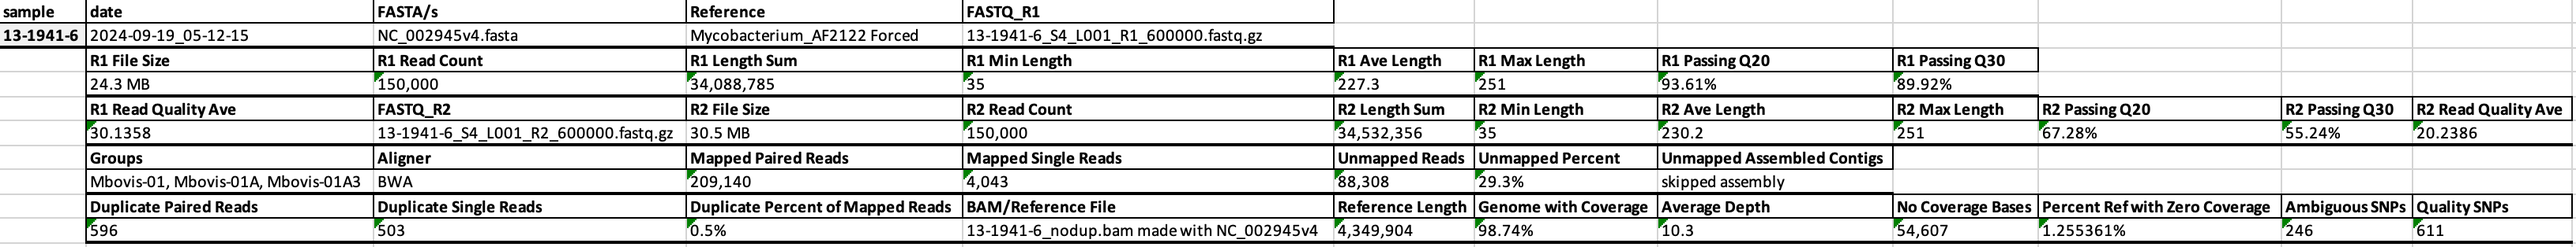
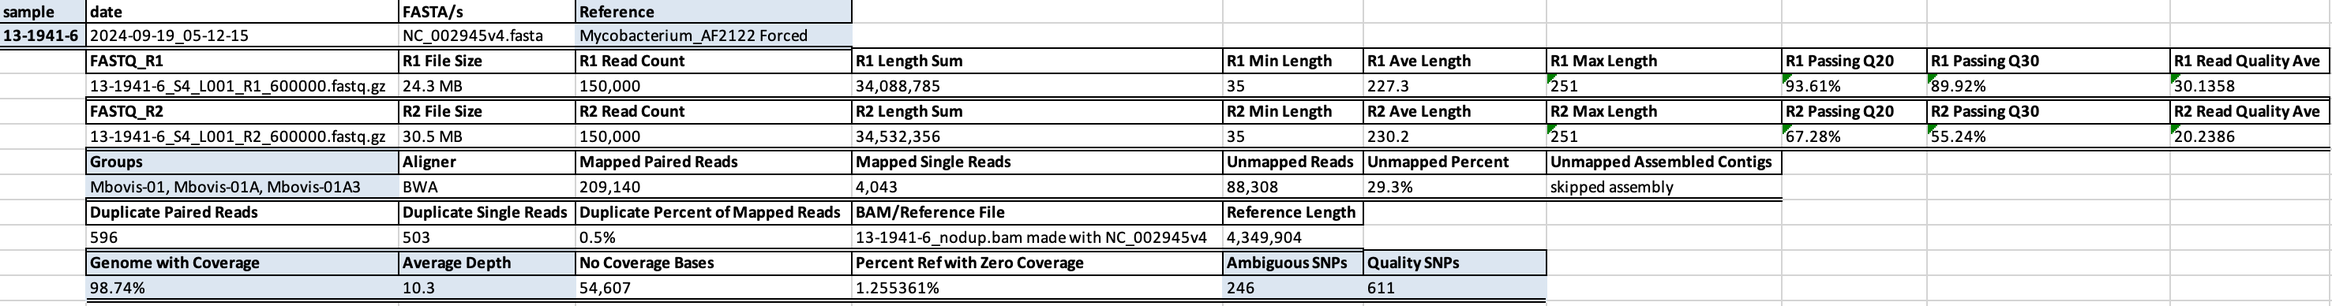
readme update5

diff --git a/README.md b/README.md
@@ -104,7 +104,16 @@ Step 1 file structure:
 
 Step 1 alignment metrics:
     ![image info](./docs/img/step1_stats.png "Step 1 alignment metrics")
-*Artifically wrapped rows*
+*Artifically wrapped rows*<br>
+**Note:** Highlighted cells
+
+- Sample: Name of the sample
+- Reference: Reference used to align reads and call SNPs
+- Groups: The groups in which the sample will be placed based on defining SNPs
+- Genome with Coverage: Percentage of reference genome that has alignment coverage of sample reads
+- Average Depth: The average depth of read coverage aligned to the reference
+- Ambiguous SNPs: The number of SNPs called with AC=1, indicating a mixed call at a position
+- Quality SNPs: The number of SNPs called with a QUAL greater than 300 and AC=2, indicating a relatively high-quality SNP
   
 Step 2 file structure:
     ![image info](./docs/img/step2_file_structure.png "Step 2 file structure")
@@ -117,11 +126,19 @@ Step 2 corresponding SNP matrix:
 
 <img src="./docs/img/step2_table.png" alt="Step 2 corresponding SNP matrix" style="height: 350px; width752px;"/>
 
-**Note:** Sample order in tree corresponds to sample order in table.  Also, for each sample the nodes and branch lengths are relative to SNPs in table.
+**Note:** The sample order in the tree corresponds to the sample order in the table. Additionally, for each sample, the nodes and branch lengths are relative to the SNPs in the table.
 
 ## Script detail
 
 vSNP3 is divided into two main steps:
+
+### Reference types
+
+Under the Quick Start at #2, adding references was done. Reference types are added to help standardize the references used and to provide structure when adding additional information to the analysis. Although files that steps 1 and 2 rely on can be called each time the scripts are run, it is easier and more stable if they are provided by using a reference type. Each reference type includes at least 4 files:
+- Defining filter Excel file: This file contains defining SNP positions. If a sample contains a defining SNP, it is placed into a group as named in the file. Because every alignment will have positions that are consistently poor, positions can be added at each group. Positions added will not be included in the analysis.  The first column of this file lists positions that will be filtered from all comparisons.
+- Metadata Excel file: A two-column file that will match sample names in column one and update them to names in column two.
+- FASTA: Reference used to align reads.
+- GenBank: Provides annotation.
 
 ### Step 1
 
